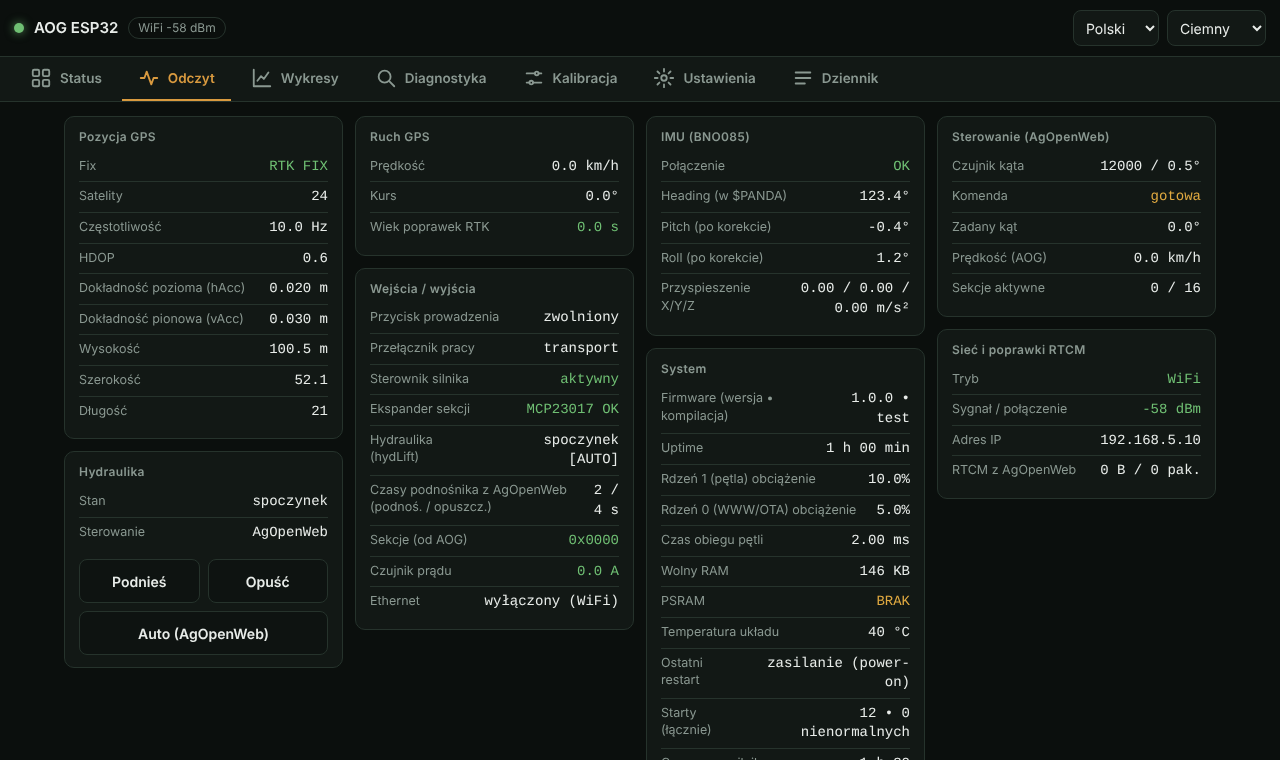
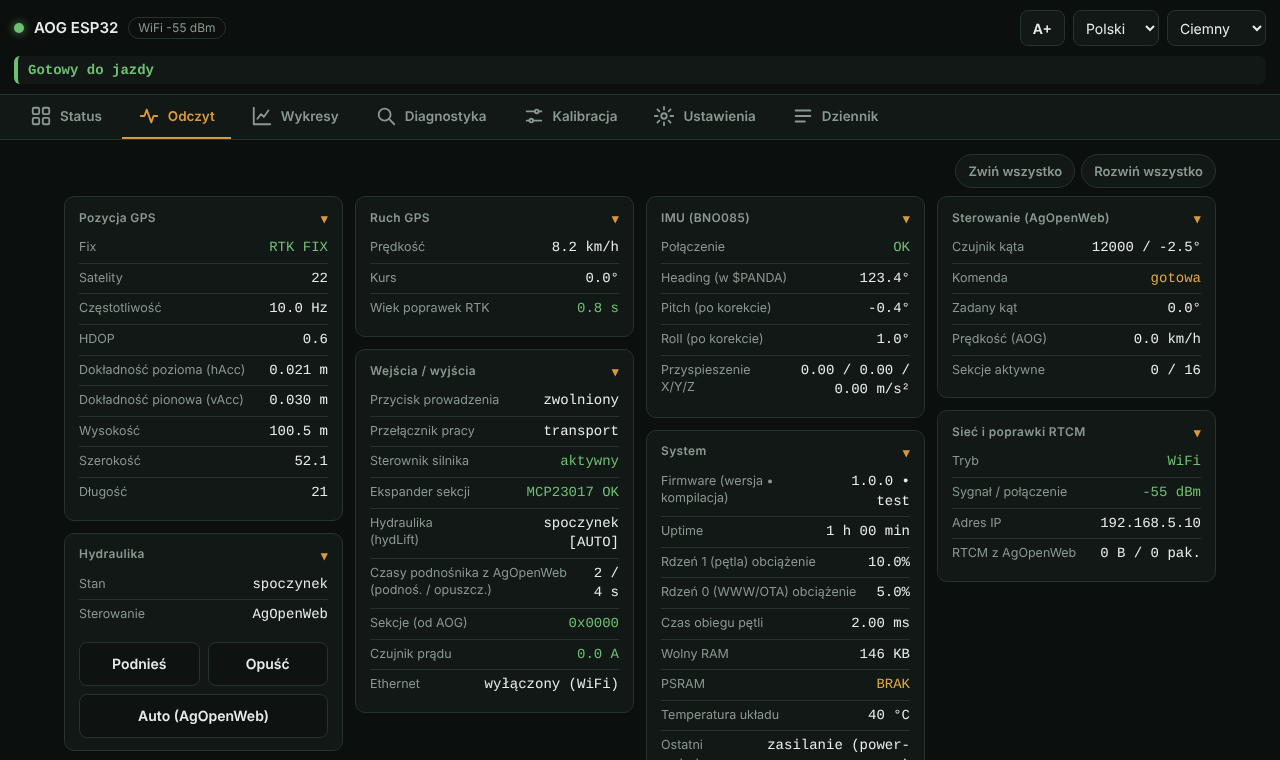
Docs: panel screenshots for computer, tablet and phone (EN/PL); fix tab bar on portrait tablets
Claude-Session: https://claude.ai/code/session_012vRR923j5FdAyYRPnorYYd

diff --git a/tools/doc_screenshots.py b/tools/doc_screenshots.py
@@ -13,7 +13,11 @@ import http.server, json, os, sys, threading
 sys.path.insert(0, os.path.dirname(os.path.abspath(__file__)))
 import panel_smoke as ps   # noqa: E402
 
-SHOTS = [('readings', 'readings', 760), ('settings', 'settings', 760), ('calibration', 'calibration', 760)]
+# (tab, file name, desktop height). Each tab is saved for three devices: panel-<name>-<lang>.png (computer, 1280 px),
+# panel-<name>-tablet-<lang>.png (820 px) and panel-<name>-phone-<lang>.png (390 px).
+SHOTS = [('status', 'status', 760), ('readings', 'readings', 760), ('charts', 'charts', 760), ('calibration', 'calibration', 760),
+         ('settings', 'settings', 760)]
+DEVICES = [('', 1280, None, 1), ('-tablet', 820, 1100, 1), ('-phone', 390, 844, 2)]   # suffix, width, height (None = per tab), pixel ratio
 
 
 def main():
@@ -24,6 +28,21 @@ def main():
     ps.Mock.html = ps.panel_html()
     ps.Mock.cats = ps.catalogs()
     ps.Mock.status = json.dumps(fx).encode('utf-8')
+
+    import math, time
+    t0 = time.time()
+
+    def wander():   # slowly changing values, so the charts in the pictures show lines instead of a single dot
+        while True:
+            t = time.time() - t0
+            v = dict(fx)
+            v.update({'hAcc': round(0.02 + 0.006 * math.sin(t / 4) + 0.003 * math.sin(t / 1.3), 4), 'satellites': 24 + int(round(math.sin(t / 7) * 2)),
+                      'gpsSpeedKmh': round(7.0 + 1.2 * math.sin(t / 5), 1), 'rssi': int(-58 + 4 * math.sin(t / 6)),
+                      'steerAngleDeg': round(2.5 * math.sin(t / 3), 1), 'ageDgps': round(1.0 + 0.4 * math.sin(t / 2.2), 1),
+                      'imuRoll': round(1.2 + 0.8 * math.sin(t / 4.4), 1), 'loopLoadPct': int(10 + 3 * math.sin(t / 3.1))})
+            ps.Mock.status = json.dumps(v).encode('utf-8')
+            time.sleep(0.5)
+    threading.Thread(target=wander, daemon=True).start()
     srv = http.server.ThreadingHTTPServer(('127.0.0.1', 0), ps.Mock)
     threading.Thread(target=srv.serve_forever, daemon=True).start()
     base = 'http://127.0.0.1:%d/' % srv.server_address[1]
@@ -31,18 +50,22 @@ def main():
     with sync_playwright() as pw:
         browser = pw.chromium.launch()
         for lang in ('en', 'pl'):
-            ctx = browser.new_context(viewport={'width': 1280, 'height': 760})
-            ctx.add_init_script("try{localStorage.setItem('lang','%s');localStorage.setItem('theme','dark')}catch(e){}" % lang)
-            page = ctx.new_page()
-            page.goto(base)
-            page.wait_for_timeout(1500)
-            for tab, name, h in SHOTS:
-                page.set_viewport_size({'width': 1280, 'height': h})
-                page.click('nav.tabs button[data-tab="%s"]' % tab)
-                page.wait_for_timeout(2500)   # the masonry layout animates into place
-                page.screenshot(path=os.path.join(out, 'panel-%s-%s.png' % (name, lang)))
-                print('saved panel-%s-%s.png' % (name, lang))
-            ctx.close()
+            for suffix, w, hh, dpr in DEVICES:
+                ctx = browser.new_context(viewport={'width': w, 'height': hh or 760}, device_scale_factor=dpr, has_touch=bool(suffix),
+                                          is_mobile=(suffix == '-phone'))
+                ctx.add_init_script("try{localStorage.setItem('lang','%s');localStorage.setItem('theme','dark');localStorage.removeItem('aog.shut');"
+                                    "localStorage.removeItem('aog.tab');localStorage.removeItem('aog.field')}catch(e){}" % lang)
+                page = ctx.new_page()
+                page.goto(base)
+                page.wait_for_timeout(30000)   # the charts fill up while the panel polls
+                for tab, name, h in SHOTS:
+                    page.set_viewport_size({'width': w, 'height': hh or h})
+                    page.click('nav.tabs button[data-tab="%s"]' % tab)
+                    page.wait_for_timeout(2500)   # the masonry layout animates into place
+                    fn = 'panel-%s%s-%s.png' % (name, suffix, lang)
+                    page.screenshot(path=os.path.join(out, fn))
+                    print('saved ' + fn)
+                ctx.close()
         browser.close()
 
 

diff --git a/web/ui/style.h b/web/ui/style.h
@@ -51,13 +51,15 @@ nav.tabs button{flex:1;display:flex;flex-direction:column;align-items:center;gap
 nav.tabs button.active{color:var(--accent);border-top-color:var(--accent)}
 .ico{width:22px;height:22px;stroke:currentColor;fill:none;stroke-width:2;stroke-linecap:round;stroke-linejoin:round}
 @media(min-width:800px){
-  nav.tabs{position:sticky;top:var(--hh,53px);bottom:auto;border-top:0;border-bottom:1px solid var(--border);padding:0 14px;justify-content:flex-start;gap:4px}
-  nav.tabs button{flex:none;flex-direction:row;gap:8px;padding:0 16px;min-height:44px;font-size:13.5px;border-top:0;border-bottom:2px solid transparent}
+  nav.tabs{position:sticky;top:var(--hh,53px);bottom:auto;border-top:0;border-bottom:1px solid var(--border);padding:0 14px;justify-content:flex-start;gap:4px;overflow-x:auto;scrollbar-width:none}
+  nav.tabs::-webkit-scrollbar{display:none}
+  nav.tabs button{flex:none;flex-direction:row;gap:8px;padding:0 clamp(8px,1.6vw,16px);min-height:44px;font-size:13.5px;border-top:0;border-bottom:2px solid transparent}
   nav.tabs button.active{border-bottom-color:var(--accent)}
   .banner{top:98px}
   .grid.tiles{grid-template-columns:repeat(4,1fr)}
   main{padding-bottom:30px!important}
 }
+@media(min-width:800px) and (max-width:980px){nav.tabs button .ico{display:none}}   /* tablet portrait: seven tabs fit only without the icons */
 main{max-width:1180px;margin:0 auto;padding:14px 14px 84px}
 .tab{display:none}.tab.active{display:block}
 h2{font-size:12px;font-weight:600;letter-spacing:.06em;text-transform:uppercase;color:var(--label);margin:20px 2px 8px}

diff --git a/docs/pl/user-guide.md b/docs/pl/user-guide.md
@@ -14,6 +14,44 @@ włącza tryb terenowy (większe przyciski, pola i zakładki do używania w kabi
 kategorie (Sieć, Połączenie z AgOpenWeb, ...) zwijają się po dotknięciu tytułu - otwarta jest tylko pierwsza - a pole wyszukiwania
 na górze filtruje ustawienia po nazwie lub opisie; pięć ostatnio edytowanych kart pojawia się nad nimi jako skróty („Ostatnio edytowane”). Na telefonie tryb terenowy sprawia, że pasek zakładek przewija się na boki. Zakładka Dziennik ma **Raport diagnostyczny** (pobranie) i **Kopiuj raport** (do schowka, bez haseł) do zgłaszania błędów.
 
+## Na komputerze, tablecie i telefonie
+
+Ten sam panel dopasowuje się do ekranu: na komputerze karty leżą obok siebie, na tablecie w dwóch kolumnach, a na telefonie zakładki przechodzą na dół ekranu. Zrzuty wszystkich głównych zakładek:
+
+<table>
+<tr><th>Komputer</th><th>Tablet</th><th>Telefon</th></tr>
+<tr><td colspan="3"><b>Status</b></td></tr>
+<tr>
+<td valign="top"><img src="../img/panel-status-pl.png" alt="Status" width="420"></td>
+<td valign="top"><img src="../img/panel-status-tablet-pl.png" alt="Status" width="300"></td>
+<td valign="top"><img src="../img/panel-status-phone-pl.png" alt="Status" width="150"></td>
+</tr>
+<tr><td colspan="3"><b>Odczyt</b></td></tr>
+<tr>
+<td valign="top"><img src="../img/panel-readings-pl.png" alt="Odczyt" width="420"></td>
+<td valign="top"><img src="../img/panel-readings-tablet-pl.png" alt="Odczyt" width="300"></td>
+<td valign="top"><img src="../img/panel-readings-phone-pl.png" alt="Odczyt" width="150"></td>
+</tr>
+<tr><td colspan="3"><b>Wykresy</b></td></tr>
+<tr>
+<td valign="top"><img src="../img/panel-charts-pl.png" alt="Wykresy" width="420"></td>
+<td valign="top"><img src="../img/panel-charts-tablet-pl.png" alt="Wykresy" width="300"></td>
+<td valign="top"><img src="../img/panel-charts-phone-pl.png" alt="Wykresy" width="150"></td>
+</tr>
+<tr><td colspan="3"><b>Kalibracja</b></td></tr>
+<tr>
+<td valign="top"><img src="../img/panel-calibration-pl.png" alt="Kalibracja" width="420"></td>
+<td valign="top"><img src="../img/panel-calibration-tablet-pl.png" alt="Kalibracja" width="300"></td>
+<td valign="top"><img src="../img/panel-calibration-phone-pl.png" alt="Kalibracja" width="150"></td>
+</tr>
+<tr><td colspan="3"><b>Ustawienia</b></td></tr>
+<tr>
+<td valign="top"><img src="../img/panel-settings-pl.png" alt="Ustawienia" width="420"></td>
+<td valign="top"><img src="../img/panel-settings-tablet-pl.png" alt="Ustawienia" width="300"></td>
+<td valign="top"><img src="../img/panel-settings-phone-pl.png" alt="Ustawienia" width="150"></td>
+</tr>
+</table>
+
 ## Status
 
 ![Zakładka Status](../img/panel-status-pl.png)

diff --git a/docs/en/user-guide.md b/docs/en/user-guide.md
@@ -14,6 +14,44 @@ field mode (larger buttons, inputs and tabs for use in a tractor cab); it is rem
 categories (Network, AgOpenWeb connection, ...) fold by tapping their title - only the first starts open - and the search box
 at the top filters the settings by name or description; the last five cards you edited appear above them as shortcuts ("Recently edited"). On a phone, field mode makes the tab bar scroll sideways. The Log tab has **Diagnostic report** (download) and **Copy report** (to the clipboard, secrets hidden) for bug reports.
 
+## On a computer, tablet and phone
+
+The same panel adapts to the screen: on a computer the cards sit side by side, on a tablet in two columns, and on a phone the tabs move to the bottom of the screen. Pictures of every main tab:
+
+<table>
+<tr><th>Computer</th><th>Tablet</th><th>Phone</th></tr>
+<tr><td colspan="3"><b>Status</b></td></tr>
+<tr>
+<td valign="top"><img src="../img/panel-status-en.png" alt="Status" width="420"></td>
+<td valign="top"><img src="../img/panel-status-tablet-en.png" alt="Status" width="300"></td>
+<td valign="top"><img src="../img/panel-status-phone-en.png" alt="Status" width="150"></td>
+</tr>
+<tr><td colspan="3"><b>Readings</b></td></tr>
+<tr>
+<td valign="top"><img src="../img/panel-readings-en.png" alt="Readings" width="420"></td>
+<td valign="top"><img src="../img/panel-readings-tablet-en.png" alt="Readings" width="300"></td>
+<td valign="top"><img src="../img/panel-readings-phone-en.png" alt="Readings" width="150"></td>
+</tr>
+<tr><td colspan="3"><b>Charts</b></td></tr>
+<tr>
+<td valign="top"><img src="../img/panel-charts-en.png" alt="Charts" width="420"></td>
+<td valign="top"><img src="../img/panel-charts-tablet-en.png" alt="Charts" width="300"></td>
+<td valign="top"><img src="../img/panel-charts-phone-en.png" alt="Charts" width="150"></td>
+</tr>
+<tr><td colspan="3"><b>Calibration</b></td></tr>
+<tr>
+<td valign="top"><img src="../img/panel-calibration-en.png" alt="Calibration" width="420"></td>
+<td valign="top"><img src="../img/panel-calibration-tablet-en.png" alt="Calibration" width="300"></td>
+<td valign="top"><img src="../img/panel-calibration-phone-en.png" alt="Calibration" width="150"></td>
+</tr>
+<tr><td colspan="3"><b>Settings</b></td></tr>
+<tr>
+<td valign="top"><img src="../img/panel-settings-en.png" alt="Settings" width="420"></td>
+<td valign="top"><img src="../img/panel-settings-tablet-en.png" alt="Settings" width="300"></td>
+<td valign="top"><img src="../img/panel-settings-phone-en.png" alt="Settings" width="150"></td>
+</tr>
+</table>
+
 ## Status
 
 ![Status tab](../img/panel-status-en.png)

diff --git a/CHANGELOG.md b/CHANGELOG.md
@@ -8,6 +8,8 @@ Format based on [Keep a Changelog](https://keepachangelog.com/); versions are `m
 - Panel: remembers the last opened tab; a slim "Ready to drive" bar (verdict plus the first problems) under the header on every tab except Status; field mode (header button **A+**, larger controls, remembered); search box in Settings; Settings categories fold on all screens (first open, choice remembered) with Collapse all / Expand all; chart groups fold; "Recently edited" shortcuts above the Settings sections; "Copy report" button next to the diagnostic report download (Log); in field mode on a phone the tab bar scrolls sideways so the tabs can be large; two status texts ("calibration", "kickout") are now translated; Log toolbar is a single scrollable row on a phone. Checked by the browser smoke test.
 
 ### Changed
+- Docs: all panel pictures regenerated for three screen sizes (computer, tablet, phone; EN and PL) with moving demo data so the charts show lines; the user guide has a new device-comparison section. `tools/doc_screenshots.py` makes all of them.
+- Panel, tablet in portrait (800-980 px): the tab bar no longer cuts off the last tab (icons hidden at that width; the bar also scrolls sideways if still too narrow).
 - Panel: cards in Readings and Calibration fold by tapping their title (chevron on the right; Diagnostics cards stay always open), with "Collapse all" / "Expand all" buttons above them; the choice is remembered in the browser. Long notes and hints in Diagnostics, Calibration and Settings fold under "Details" (warnings and status messages stay visible). Checked by the browser smoke test (fold, reload, collapse / expand all).
 - Panel, Settings on a phone: every section folds by tapping its title and only the first starts open (the page was about 6,400 px tall, now about 2,600 px); a jump button opens its section. Checked by the browser smoke test at 390 px (also: no horizontal overflow).
 - Panel, System card: protection trips are shown shorter ("runaway 0 • current 0 • loop 0") so the row no longer wraps on a phone; the Polish text no longer has the English word "runaway".

diff --git a/README.md b/README.md
@@ -15,6 +15,8 @@ with a live web panel, a built-in NTRIP client, an IMU and over-the-air updates.
 panel is served by the module itself, in Polish and English.
 
 ![Status tab of the web panel](docs/img/panel-status-en.png)
+
+<p><img src="docs/img/panel-status-tablet-en.png" alt="Status tab on a tablet" width="330"> <img src="docs/img/panel-status-phone-en.png" alt="Status tab on a phone" width="160"></p>
 <sub>Status tab. All screenshots and the wiring diagram in this repository were **generated by AI** from demo data, not taken from a real machine.</sub>
 
 ## Highlights

diff --git a/README.pl.md b/README.pl.md
@@ -15,6 +15,8 @@ na żywo, własnym klientem NTRIP, IMU i aktualizacją przez WiFi. Bez aplikacji
 po polsku i angielsku.
 
 ![Zakładka Status panelu WWW](docs/img/panel-status-pl.png)
+
+<p><img src="docs/img/panel-status-tablet-pl.png" alt="Zakładka Status na tablecie" width="330"> <img src="docs/img/panel-status-phone-pl.png" alt="Zakładka Status na telefonie" width="160"></p>
 <sub>Zakładka Status. Wszystkie zrzuty ekranu i schemat połączeń w tym repozytorium zostały **wygenerowane przez AI** z danych demo, nie z prawdziwej maszyny.</sub>
 
 ## Najważniejsze
